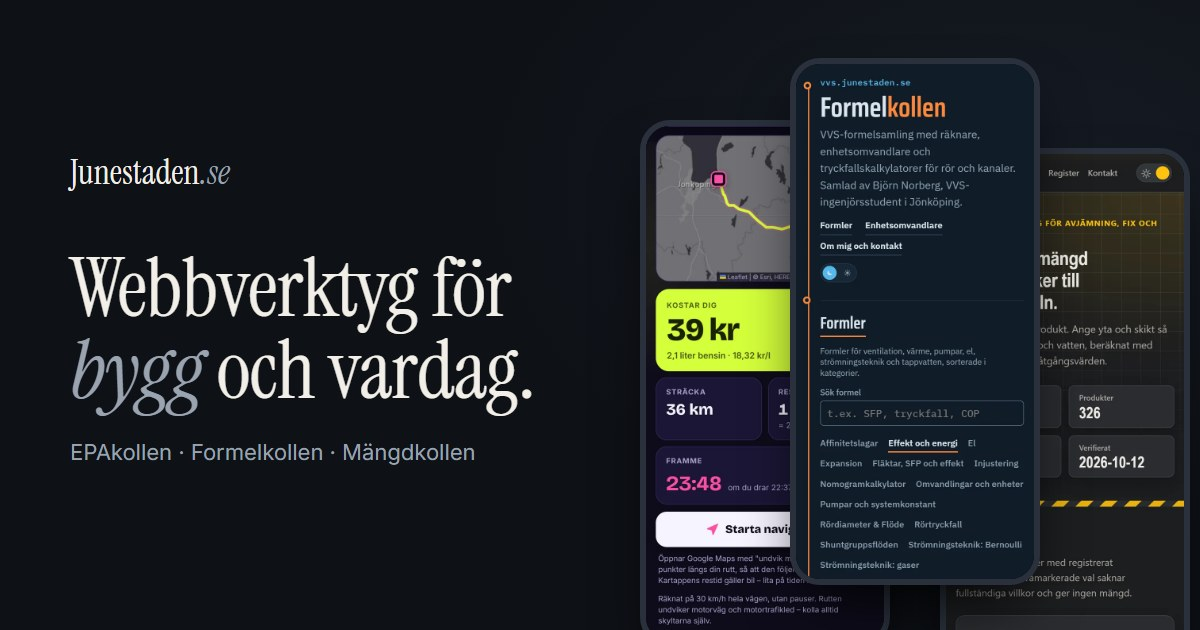
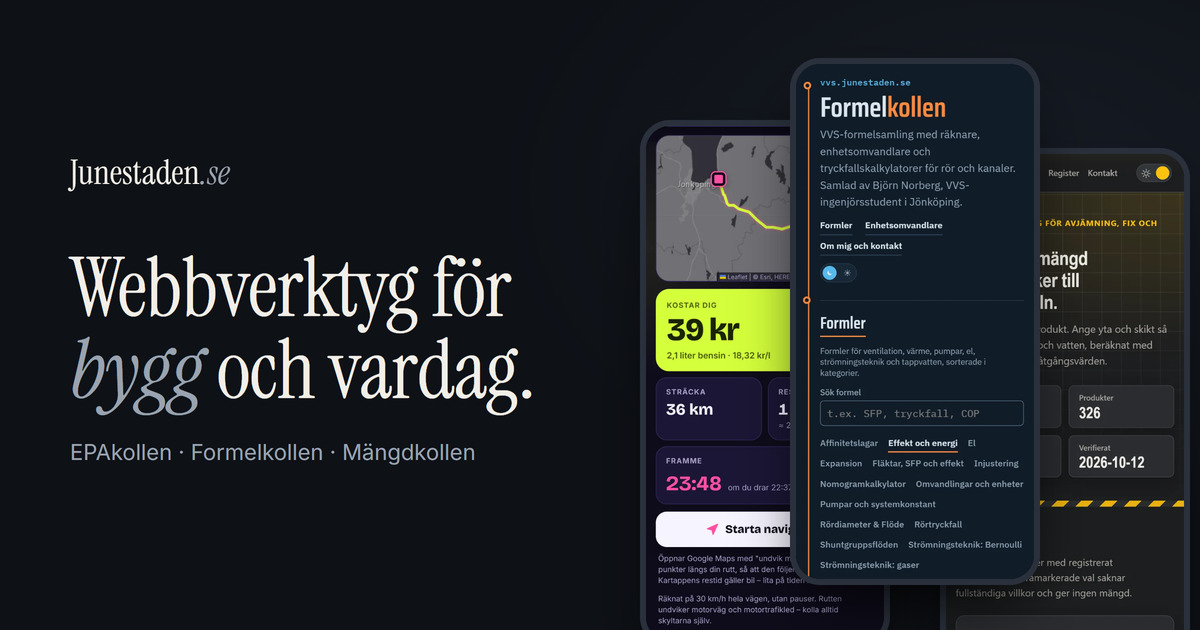
Längre delningsbeskrivning och skarpare delningsbild

diff --git a/public/index.html b/public/index.html
@@ -17,8 +17,8 @@
 <meta property="og:site_name" content="Junestaden">
 <meta property="og:url" content="https://junestaden.se/">
 <meta property="og:title" content="Junestaden – webbverktyg för bygg och vardag">
-<meta property="og:description" content="EPAkollen, Formelkollen och Mängdkollen. Gratis, utan inloggning och gjorda för mobilen.">
-<meta property="og:image" content="https://junestaden.se/img/og.jpg?v=2">
+<meta property="og:description" content="EPAkollen, Formelkollen och Mängdkollen – gratis webbverktyg för EPA-resor, VVS-formler och materialåtgång. Utan inloggning, i mobilen och på datorn.">
+<meta property="og:image" content="https://junestaden.se/img/og.jpg?v=3">
 <meta property="og:image:width" content="1200">
 <meta property="og:image:height" content="630">
 <meta name="twitter:card" content="summary_large_image">
